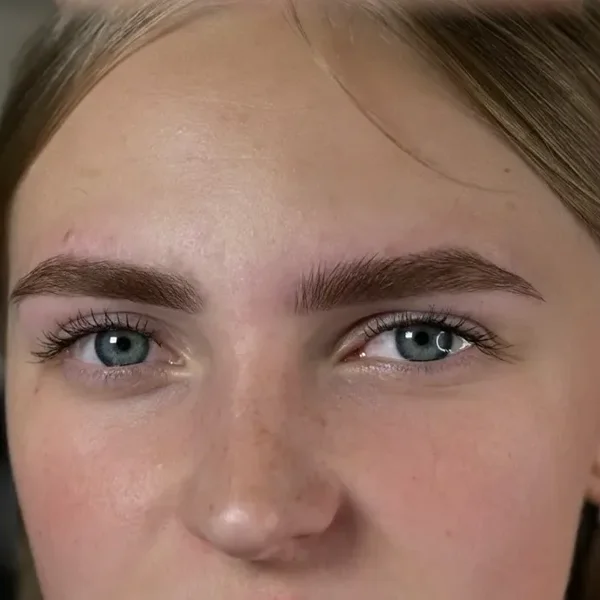
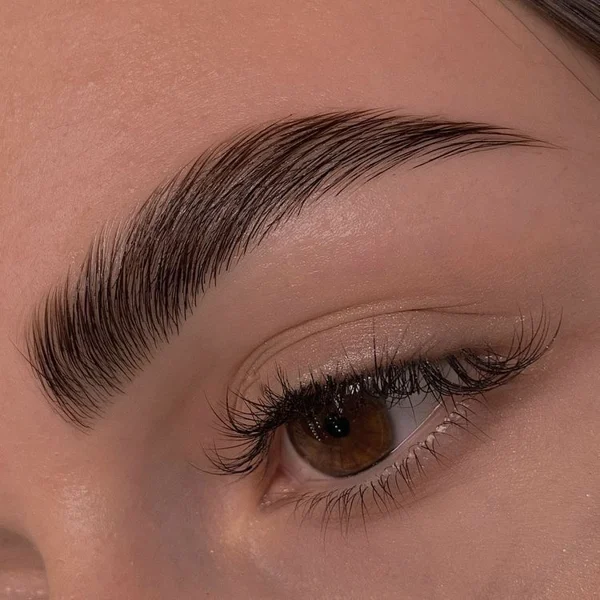
Loader: new 'брови зі мною' photo

diff --git a/index.html b/index.html
@@ -405,7 +405,7 @@ footer .wrap{display:flex;justify-content:space-between;gap:16px;flex-wrap:wrap;
   <div class="duo">
     <div class="memecard m1" id="meme"><div class="ph"><img src="img/dog.webp" alt="Пес із намальованими бровами"></div><span class="cap2">брови без мене</span></div>
     <span class="vs">vs</span>
-    <div class="memecard m2" id="meme2"><div class="ph"><img src="img/withme.webp" alt="Брови після роботи Влади"></div><span class="cap2">брови зі мною</span></div>
+    <div class="memecard m2" id="meme2"><div class="ph"><img src="img/withme.webp?v=2" alt="Брови після роботи Влади"></div><span class="cap2">брови зі мною</span></div>
   </div>
   <div class="bar">
     <div class="bar-track"><div class="bar-fill" id="fill"></div></div>
